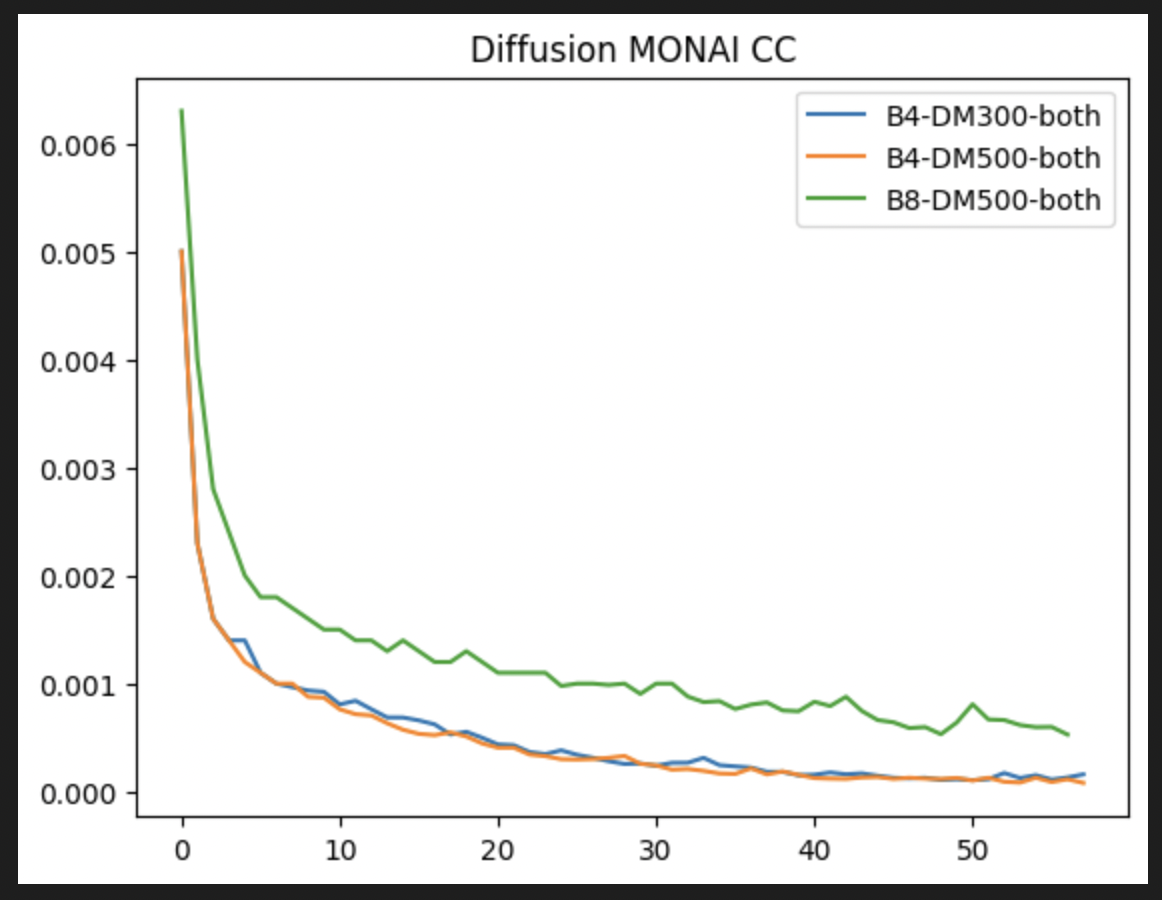
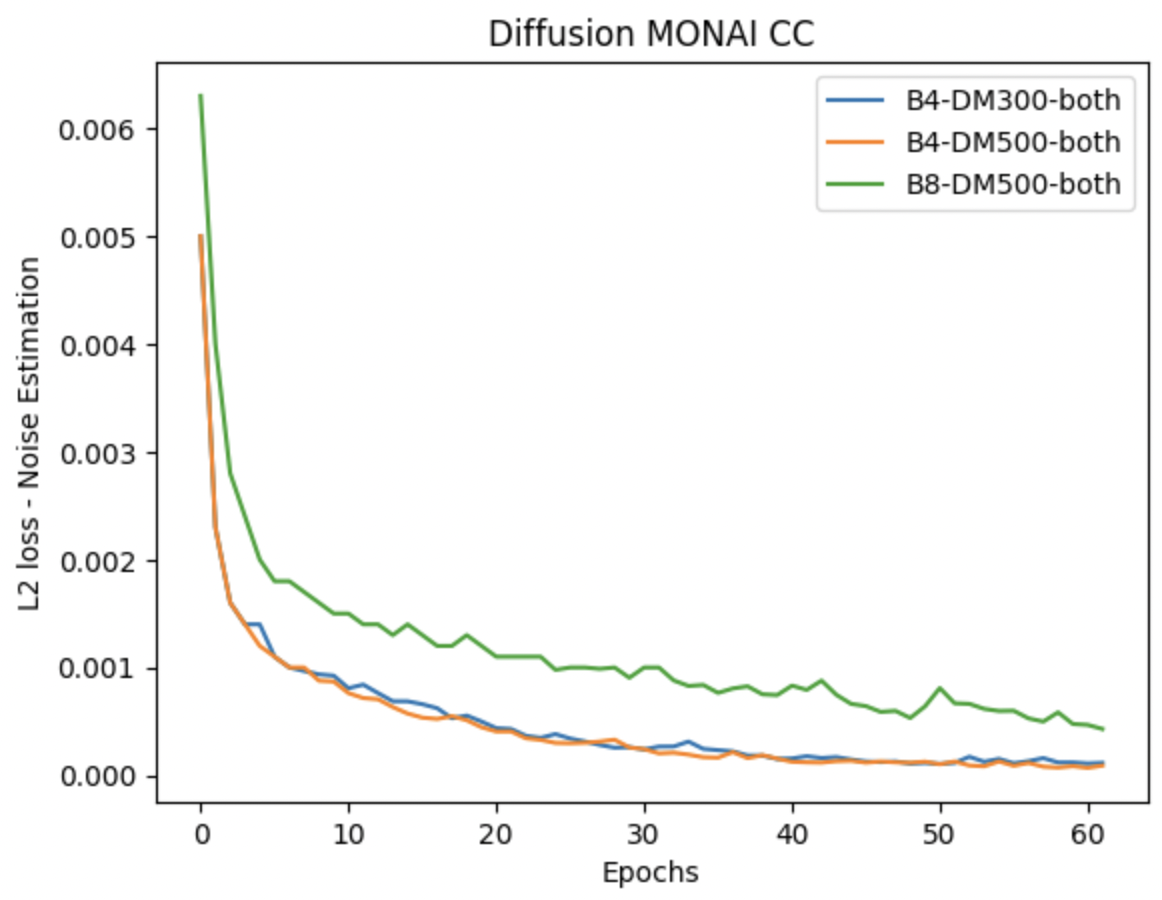
Made changes

Changed region(s): [[0.0, 0.0, 1.0, 1.0]]

diff --git a/doc/posts/2023/2023_08_21_vara_week_12_13.rst b/doc/posts/2023/2023_08_21_vara_week_12_13.rst
@@ -8,46 +8,73 @@ Finalized experiments using both datasets: Week 12 & Week13
 
 What I did this week
 ~~~~~~~~~~~~~~~~~~~~
-Monai's VQVAE results on T1-weighted NFBS dataset, 125 samples, for batch_size=5 were qualitatively and quantitatively superior to all previous results. I continued the same experiments on the T1-weighted CC359(Calgary-Campinas-359) public dataset consisting of 359 anatomical MRI volumes of healthy individuals. Preprocessed the data using existing `transform_img` function -
+
+Monai's VQVAE results on T1-weighted NFBS dataset, 125 samples, for batch size of 5 were qualitatively and quantitatively superior to all previous results. I continued the same experiments on the T1-weighted CC359(Calgary-Campinas-359) public dataset consisting of 359 anatomical MRI volumes of healthy individuals. Preprocessed the data using existing ``transform_img`` function -
+
    1. skull-strips the volume using the respective mask
-   2. dipy's `resize` & scipy's `affine_transform` scale the volume to (128,128,128,1) shape
+   2. dipy's ``resize`` & scipy's ``affine_transform`` scale the volume to (128,128,128,1) shape & (1,1,1) voxel size
    3. MinMax normalization to limit the range of intensities to (0,1)
 
-Using existing training parameters, carried out two experiments, one on CC359 alone & another on both datasets combined. Additionally, I made a slight modification in the loss definition by attributing different weights of 0.5 & 1 to background & foreground pixels compared to equal weights from previous experiments. This resulted in faster convergence as shown in the red, blue & purple lines in the combined plot below-
+Using existing training parameters, carried out two experiments, one on CC359 alone & another on both datasets combined. Additionally, I made a slight modification in the loss definition by attributing different weights of 0.5 & 1 to background & foreground pixels compared to equal weights from previous experiments. This resulted in faster convergence as shown in the red, blue & purple lines in the combined plot shown below. (Naming convention for each each training curve is ``B<batch_size>-<dataset_used>``, where CC=CC359, NFBS=NFBS, both=[NFBS,CC359])
 
 .. image:: /doc/_static/vqvae3d-monai-training-plots.png
    :alt: Combined trainings plots for all experiments
    :width: 800
 
-Inference results on the best performing model - B12-both - is as follows-
+Inference results on the best performing model, B12-both, is shown below, where every two rows correspond to reconstructions & original volumes respectively, with equally spaced slices in each row. These slices visualised are anterior-posterior topdown & ventral-dorsal LR.
 
 .. image:: /doc/_static/vqvae-monai-B12-both.png
-   :alt: VQVAE-Monai-B12-both reconstructions & originals showing equally spaced 5 slices for 2 samples
+   :alt: VQVAE-Monai-B12-both reconstructions & originals showing equally spaced 5 slices for 2 different test samples
    :width: 800
 
-This shows that our training not only converged quickly but also improved visually. Here's a comparison of our current best performing model i.e., VQVAE-Monai-B12-both & the previous one i.e., VQVAE-Monai-B5-NFBS. The test reconstruction loss is 0.0013 & 0.0015 respectively.
+Here's a similar visualization of the inference on the next best performing model, B12-CC. 
+
+.. image:: /doc/_static/vqvae-monai-B12-CC.png
+   :alt: VQVAE-Monai-B12-CC reconstructions & originals showing equally spaced 5 slices for 2 different test samples
+   :width: 800
+
+This shows that our training not only converged quickly but also improved visually. Here's a comparison of our current best performing model i.e., VQVAE-Monai-B12-both & the previous one on NFBS i.e., VQVAE-Monai-B5-NFBS. The test reconstruction loss is 0.0013 & 0.0015 respectively. 
 
 .. image:: /doc/_static/vqvae-reconstructions-comparison.png
    :alt: VQVAE reconstruction comparison for B12-both & B5-NFBS
    :width: 800
 
-I also carried Diffusion Model training for the bets performing B12-both model for 300 & 500 diffusion steps and the training curve obtained is as follows-
+I also carried out Diffusion Model training on the best performing VQVAE-Monai-B12-both model for 300 & 500 diffusion steps and the training curves obtained are as follows-
 
 .. image:: /doc/_static/dm3d-monai-training-curves.png
    :alt: Diffusion Model training plots for 300 & 500 diffusion steps
    :width: 800
 
-These curves seemed to converge pretty quickly but the sampling outputs in the generation pipeline are still pure noise.
+These curves seemed to converge pretty quickly but the sampling outputs in the generation pipeline are still pure noise as shown below-
+
+.. image:: /doc/_static/dm3d-monai-B8-DM500.png
+   :alt: Diffusion Model training plots for 300 & 500 diffusion steps
+   :width: 800
+
+
+The best performance of KL encoders/VAEs/VQVAEs have been shown to deliver blurry reconstructions on Medical datasets. Despite using a pretty less complex VQVAE model, with only ``num_res_channels=(32, 64)``, we consistently achieved improved reconstruction results with every experiment. From capturing only the brain outer structure through VQAVE-B5-NFBS model to able to capture the volumetric details of the inner microstructure of the brain through VQVAE-Monai-B10-both model, we've stretched the capabilities of the VQVAE model.
+
+
+For future work we should look into two things - debugging Diffusion Model, scaling VQVAE model.
+
+As a first priority, we could analyze the reason for pure noise output in DM3D generations, this would help us rule out any implementation errors(although I already did that, a second pair of eyes would be helpful). Because MONAI's work shows that even without a stable convergence on their diffusion model they achieved visualizations resembling a brain. Whereas our model despite achieving a stable looking training curve, our generations are not close to being convincing.
+
+As a second step, we could also try scaling up both VQVAE as well as Diffusion Model in terms of complexity, such as increasing intermediate channel dimensions from 64 to 128 or 256 as done in MONAI's 3D LDM. This hopefully may help us achieve the state-of-art on NFBS & CC359 datasets.
+
 
 What is coming up next week
 ~~~~~~~~~~~~~~~~~~~~~~~~~~~
 
 Wrapping up documentation & final report
 
+
 Did I get stuck anywhere
 ~~~~~~~~~~~~~~~~~~~~~~~~
 
 Yes, I carried out debugging to understand the generation pipeline of the Diffusion Model. Cross-checked implementations of posterior mean & variance in the code base with respective formulas from the paper, as well as with MONAI's DDPM implementation. Didn't come across any error, yet the generated samples are erroneous.
+
+
+
 
 
 
